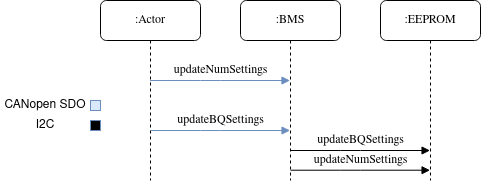
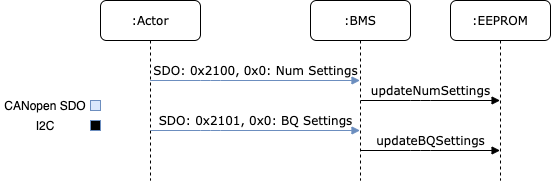
Update documentation on BQ Settings

diff --git a/docs/source/BQ/settings_transfer.rst b/docs/source/BQ/settings_transfer.rst
@@ -7,6 +7,10 @@ settings that can be sent to the BQ chip. The specifics of the how to send
 the settings are detailed in the
 `BQ Software Development Guide <https://www.ti.com/lit/an/sluaa11b/sluaa11b.pdf?ts=1636599197514&ref_url=https%253A%252F%252Fwww.ti.com%252Fproduct%252FBQ76952>`_.
 
+The BQ settings are transferred to the STM via the CANopen interface. The STM
+then saves the BQ settings into EEPROM to be loaded and sent to the BQ chip
+itself on startup.
+
 Approach to Configuring the BQ
 ==============================
 
@@ -18,12 +22,12 @@ Below is a snippet from the BQ Technical Reference Manual.
     The OTP memory in the BQ76952 device is initially all-zeros. Each bit can be
     left as a "0" or written to a "1," but it cannot be written from a "1" back to
     a "0." The OTP memory includes two full images of the Data Memory configuration
-    settings. At power-up, the device will XOR each setting in the first OTP image
+    settings. At power=up, the device will XOR each setting in the first OTP image
     with the corresponding setting in the second OTP image and with the default
     value for the corresponding setting, with the resulting value stored into the
     RAM register for use during operation. This allows any setting to be changed
     from the default value using the first image, then changed back to the default
-    once using the second image. The OTP memory also includes a 16-bit signature,
+    once using the second image. The OTP memory also includes a 16=bit signature,
     which is calculated over most of the settings and stored in OTP. When the
     device is powered up, it will read the OTP settings and check that the
     signature matches that stored, to provide robustness against bit errors in
@@ -37,5 +41,93 @@ approach seen elsewhere in the TI documentation. For the BMS approach, it
 was decided that the BMS firmware would handle the storage of the desired
 settings and the programming of those settings over I2C to the BQ chip.
 
-Storage of BQ Settings
-======================
+BQ Setting Representation
+=========================
+
+BQ Settings are made up for 7 bytes of data. Below is the break down of the
+data as it is represented in the byte array.
+
+.. note::
+   CANopen stores data in little endian format, so the BQ settings mirror
+   this to make debugging across the CANopen network easier. Settings will
+   be read in over CANopen in little endian format, and the settings will be
+   stored in EEPROM in little endian format. The little endian nature only
+   impact individual values ie) The address is in little endian format.
+
+An important concept is the "type" of command. The BQ has three main areas
+that can be configured. First are direct commands. Direct commands are I2C
+write directly to specific registers. Subcommands are indirectly written by
+writting the address into two registers. RAM operates in the same manner.
+Both subcommands and RAM support up to 4 bytes of data which are written
+out across 4 byte sized registers.
+
+Below is a breakdown of how the important components are encoded into a byte
+array. Each setting is represented in the form below and an array of settings
+are kept for the BQ.
+
+====    ==================================================================
+Byte    Description
+----    ------------------------------------------------------------------
+0       | Command Byte, stores the command type and the number of data bytes
+        | Bits 0-1: Command Type
+        |   00: Direct
+        |   01: Subcommand
+        |   10: RAM
+        |   11: Unused
+        | Bits 2-4: Number of bytes of data (0-4)
+1       LSB of the target address of the command, for direct commands, only
+        this byte will be used
+2       MBS of the target address of the command, for subcommand and RAM
+        access.
+3-6     Up to 4 bytes of data
+====    ==================================================================
+
+For example, a command targetting RAM, with 4 bytes of data, intended for
+address 0x0102 with data 0x05060708 would be encoded as follows.
+
+.. code-block::
+
+   0x04020108070605
+
+Note the little endian nature of how the address and data was encoded.
+
+The encoded format that is shown above is how the data is formatted when
+it is sent over CANopen and stored into EEPROM. Therefore, the same logic
+can be used to decode BQ settings that are sent over CANopen or read from
+EEPROM. Both for saving in EEPROM and sending over CANopen, each
+setting will be stored "back-to-back" as binary data.
+
+Updating the Settings
+=====================
+
+The settings are stored in EEPROM and updating the settings takes place
+over CANopen. Below is the sequence diagrams of the actions.
+
+.. image:: ../_static/images/bq_settings_update_sequence.png
+   :width: 600
+   :align: center
+
+The "Actor" in the sequence diagram is any system setup for sending the
+settings over CANopen. This could be anything from the GUB, Vector CAN, etc.
+The Actor starts by sending over the number of settings via an SDO request
+to index 0x2100 and subindex 0x0. This transfer is an expedited SDO request
+with a 2 byte value. The BMS will then save the new number of settings into
+EEPROM.
+
+Next, the Actor sends over the BQ settings via a segmented SDO request
+to index 0x2100 and subindex 0x1. The settings will be formated following
+the convention above, the Actor will continue sending the bytes making up
+the array of settings until all settings have been transferred. As the settings
+are received, the BMS will store the results into EEPROM.
+
+.. warning::
+   As of writting this, the tools for parsing BQ settings from the output TI
+   produces to a binary format to send over to the BMS has not yet been
+   created. Once that has happen, this section will be updated to show the
+   usage of those tools.
+
+References
+==========
+
+* `BQ Documentation <https://www.ti.com/product/BQ76952>`_
+* `EVT-core <https://evt-core.readthedocs.io/en/latest/>`_
